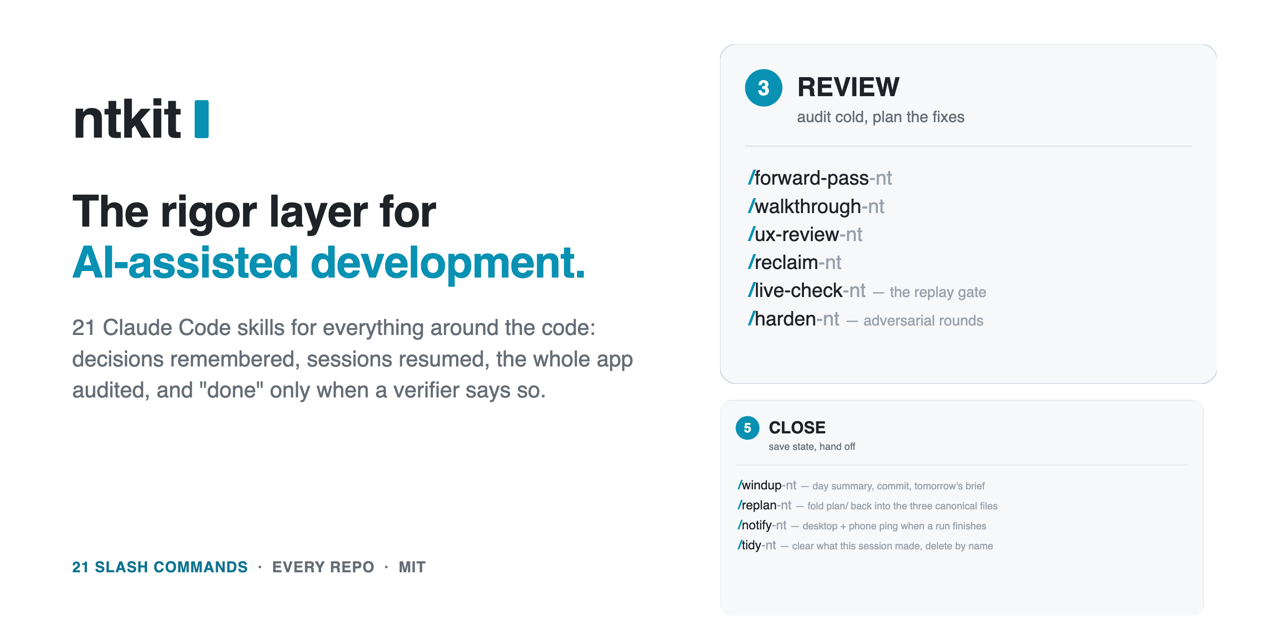
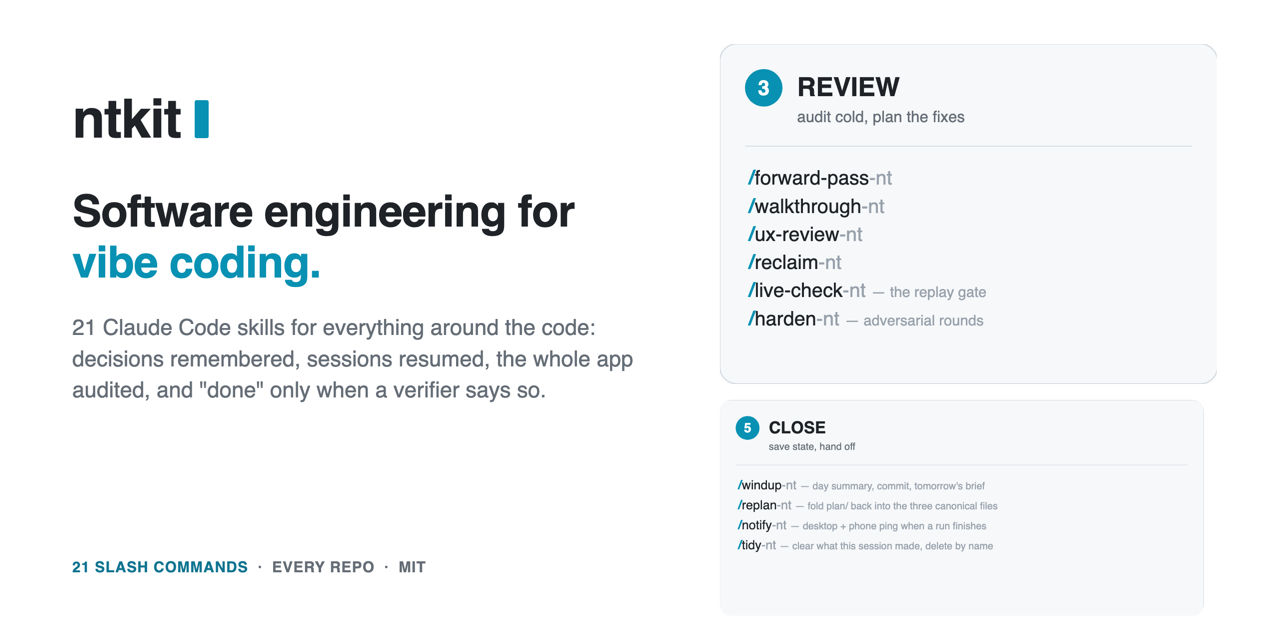
Tagline: software engineering for vibe coding

Changed region(s): [[0.0312, 0.2812, 0.4688, 0.4688]]

diff --git a/assets/social.html b/assets/social.html
@@ -31,7 +31,7 @@
 <body>
   <div class="copy">
     <div class="brand"><span>ntkit</span><i></i></div>
-    <h1>The rigor layer for <em>AI-assisted development.</em></h1>
+    <h1>Software engineering for <em>vibe coding.</em></h1>
     <p class="sub">21 Claude Code skills for everything around the code: decisions remembered, sessions resumed, the whole app audited, and "done" only when a verifier says so.</p>
   </div>
   <div class="facts"><b>21 slash commands</b> &nbsp;·&nbsp; every repo &nbsp;·&nbsp; MIT</div>
